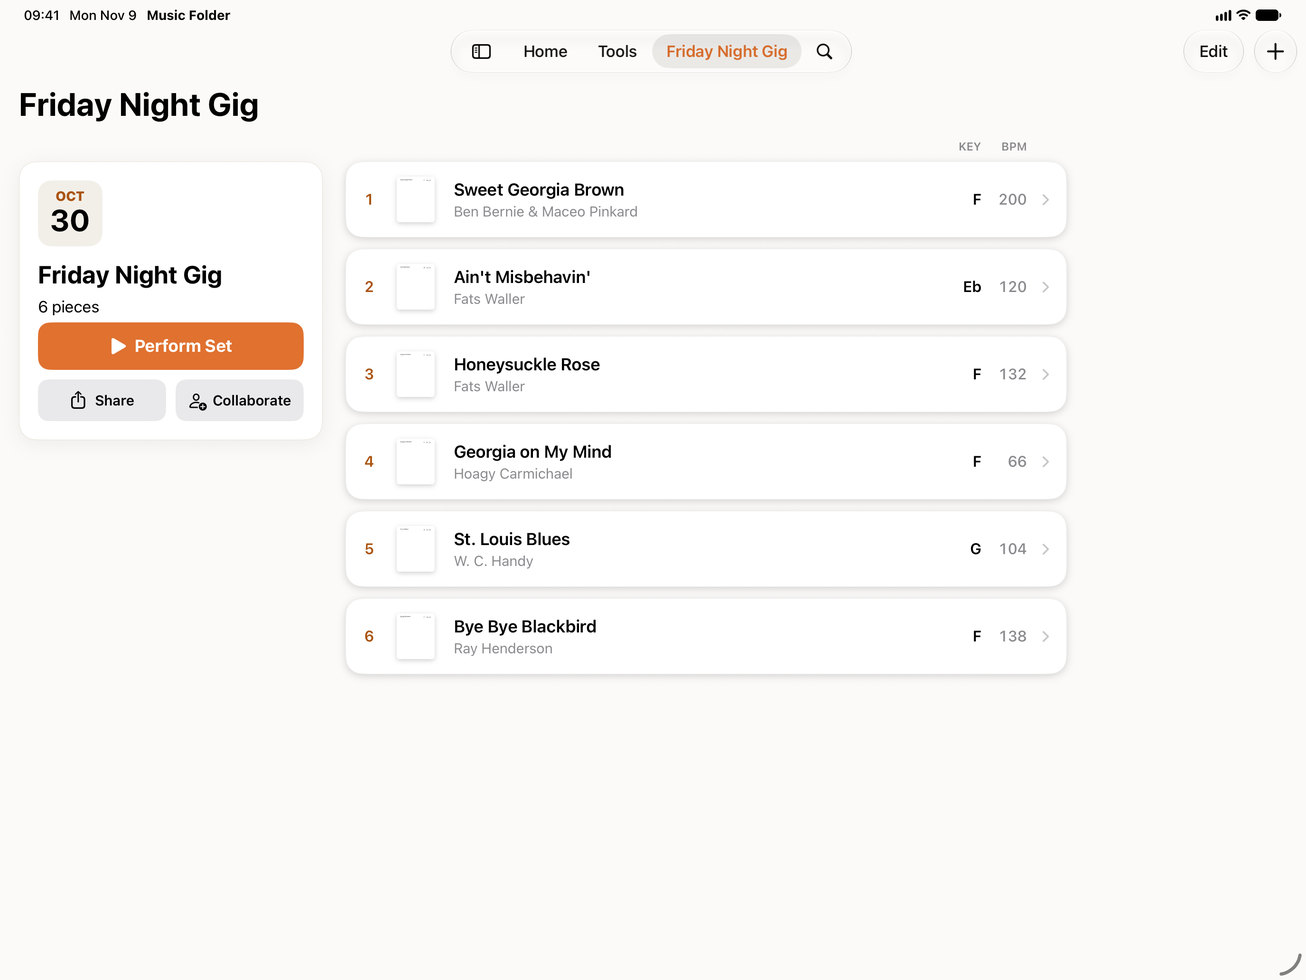
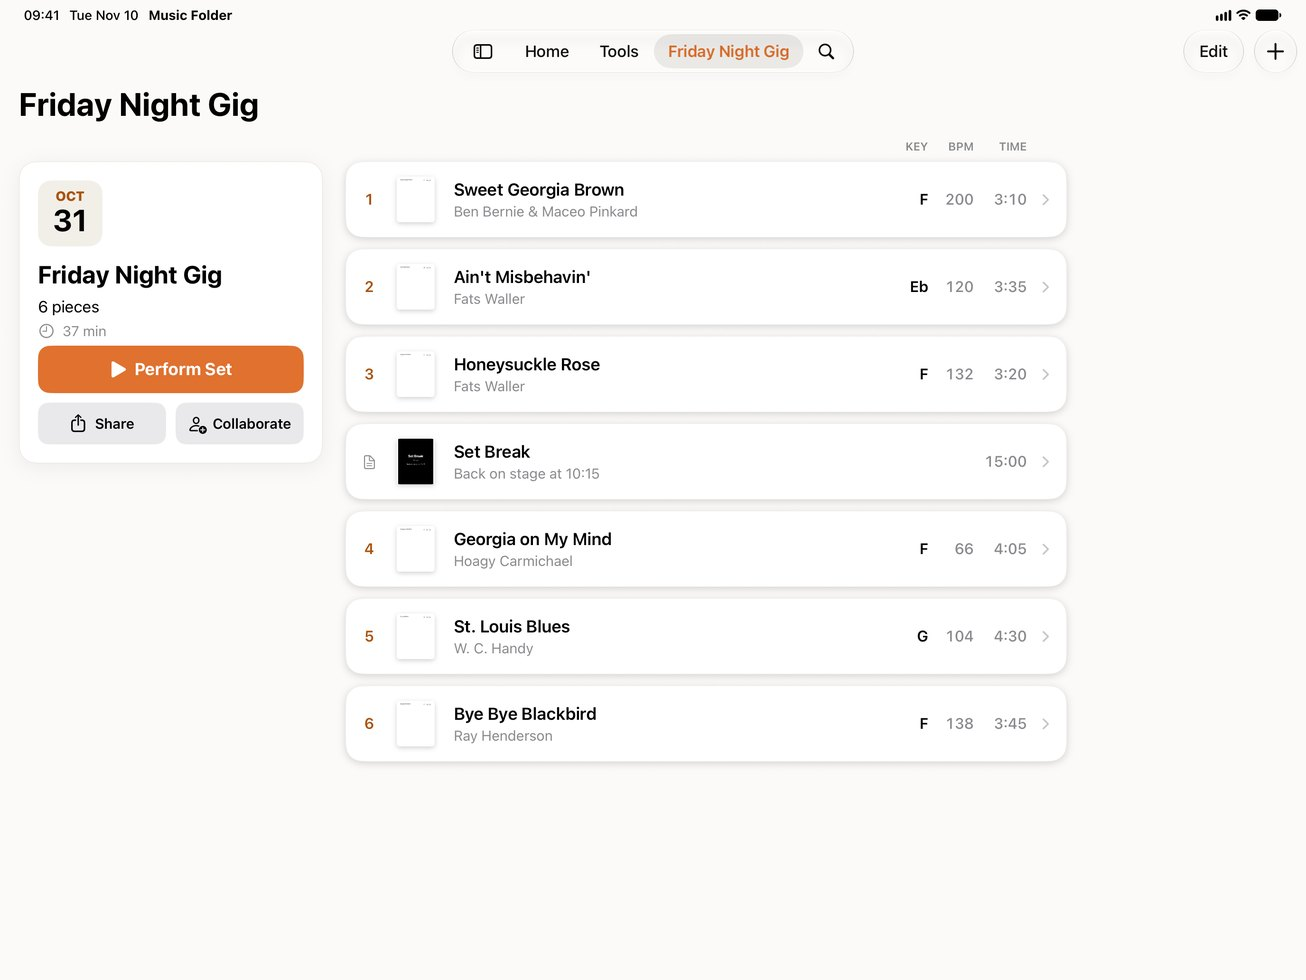
Friday Night Gig: song lengths and a black 15-minute Set Break page
Recaptured on MF iPad Pro 13 27.2 from the same seed, now with each song's
length (TIME column, 37 min set total) and a black Set Break set-list page
("Back on stage at 10:15", 15:00 timer) after Honeysuckle Rose. Window
resize handle removed. Alt text follows; cache-busted (v4) on Set Lists,
Page Turner and Bands.

diff --git a/features/page-turner.html b/features/page-turner.html
@@ -263,7 +263,7 @@
   <div class="wrap rows">
     <div class="row-feature">
       <div class="rf-text"><h2 class="heading-sm">Straight through <em>the set.</em></h2><p>In a set list, a page turn on the last page carries straight into the next song, so the whole set plays like one score.</p><ul class="rf-points"><li><svg viewBox="0 0 16 16" fill="none" stroke="currentColor" stroke-width="1.9" stroke-linecap="round" stroke-linejoin="round" aria-hidden="true"><path d="M3 8.5l3 3 7-7"/></svg><span>Works in every reader, Planning Center services included</span></li><li><svg viewBox="0 0 16 16" fill="none" stroke="currentColor" stroke-width="1.9" stroke-linecap="round" stroke-linejoin="round" aria-hidden="true"><path d="M3 8.5l3 3 7-7"/></svg><span>Turn page by page, or scroll continuously</span></li><li><svg viewBox="0 0 16 16" fill="none" stroke="currentColor" stroke-width="1.9" stroke-linecap="round" stroke-linejoin="round" aria-hidden="true"><path d="M3 8.5l3 3 7-7"/></svg><span>The screen stays awake while you play</span></li></ul></div>
-      <div class="rf-visual"><div class="device tablet landscape fit"><div class="screen shot"><img src="/assets/setlist-band-ipad.jpg?v=3" alt="A set list called Friday Night Gig in Music Folder on iPad: six jazz standards in playing order, each with composer, key and tempo, beside Perform Set, Share and Collaborate" width="1306" height="980" loading="lazy"></div></div></div>
+      <div class="rf-visual"><div class="device tablet landscape fit"><div class="screen shot"><img src="/assets/setlist-band-ipad.jpg?v=4" alt="A set list called Friday Night Gig in Music Folder on iPad: six jazz standards in playing order, each with composer, key, tempo and length, a black Set Break page with a 15-minute timer after the third song, and the set’s total time beside Perform Set, Share and Collaborate" width="1306" height="980" loading="lazy"></div></div></div>
     </div><div class="row-feature flip">
       <div class="rf-text"><h2 class="heading-sm">Every key a pedal <em>might send.</em></h2><p>Music Folder listens for all the keys page turners use, so most pedals work the moment they’re paired.</p><ul class="rf-points"><li><svg viewBox="0 0 16 16" fill="none" stroke="currentColor" stroke-width="1.9" stroke-linecap="round" stroke-linejoin="round" aria-hidden="true"><path d="M3 8.5l3 3 7-7"/></svg><span>Bluetooth keyboards work too</span></li><li><svg viewBox="0 0 16 16" fill="none" stroke="currentColor" stroke-width="1.9" stroke-linecap="round" stroke-linejoin="round" aria-hidden="true"><path d="M3 8.5l3 3 7-7"/></svg><span>Turns pause while you annotate or type a note</span></li><li><svg viewBox="0 0 16 16" fill="none" stroke="currentColor" stroke-width="1.9" stroke-linecap="round" stroke-linejoin="round" aria-hidden="true"><path d="M3 8.5l3 3 7-7"/></svg><span>Landscape for charts printed sideways</span></li></ul></div>
       <div class="rf-visual"><div class="pedal-card"><svg class="pedal-art" viewBox="0 0 400 240" aria-hidden="true" focusable="false"><defs><linearGradient id="paBase" x1="0" y1="0" x2="0" y2="1"><stop offset="0" stop-color="#2E2E31"/><stop offset="1" stop-color="#1F1F21"/></linearGradient><linearGradient id="paPad" x1="0" y1="0" x2="0" y2="1"><stop offset="0" stop-color="#303033"/><stop offset=".55" stop-color="#232325"/><stop offset="1" stop-color="#1A1A1C"/></linearGradient><pattern id="paGrip" width="5" height="5" patternUnits="userSpaceOnUse"><circle cx="2.5" cy="2.5" r=".7" fill="rgba(255,255,255,0.06)"/></pattern><radialGradient id="paLed"><stop offset="0" stop-color="#F7A46A"/><stop offset="1" stop-color="#E0712F" stop-opacity="0"/></radialGradient></defs><rect x="12" y="38" width="376" height="196" rx="30" fill="#0E0E0F"/><rect x="12" y="28" width="376" height="196" rx="30" fill="url(#paBase)"/><rect x="12.75" y="28.75" width="374.5" height="194.5" rx="29.25" fill="none" stroke="rgba(255,255,255,0.07)" stroke-width="1.5"/><g class="pa-pad pa-l"><rect x="26" y="49" width="160" height="168" rx="20" fill="#0B0B0C"/><g class="pa-top"><rect x="26" y="42" width="160" height="168" rx="20" fill="url(#paPad)"/><rect x="26" y="42" width="160" height="168" rx="20" fill="url(#paGrip)"/><rect x="26.75" y="42.75" width="158.5" height="166.5" rx="19.25" fill="none" stroke="rgba(255,255,255,0.09)" stroke-width="1.5"/><rect class="pa-glow" x="27.5" y="43.5" width="157" height="165" rx="18.5" fill="none" stroke="#E0712F" stroke-width="2"/></g></g><g class="pa-pad pa-r"><rect x="214" y="49" width="160" height="168" rx="20" fill="#0B0B0C"/><g class="pa-top"><rect x="214" y="42" width="160" height="168" rx="20" fill="url(#paPad)"/><rect x="214" y="42" width="160" height="168" rx="20" fill="url(#paGrip)"/><rect x="214.75" y="42.75" width="158.5" height="166.5" rx="19.25" fill="none" stroke="rgba(255,255,255,0.09)" stroke-width="1.5"/><rect class="pa-glow" x="215.5" y="43.5" width="157" height="165" rx="18.5" fill="none" stroke="#E0712F" stroke-width="2"/></g></g><circle cx="200" cy="34.5" r="2.6" fill="#3A3A3D"/><circle class="pa-led" cx="200" cy="34.5" r="7" fill="url(#paLed)"/><circle class="pa-led" cx="200" cy="34.5" r="2.6" fill="#E0712F"/></svg><div class="pc-cols"><div class="kc-col pc-prev"><div class="kc-head">Previous page</div><div class="kc-keys"><kbd aria-label="Left arrow">←</kbd><kbd aria-label="Up arrow">↑</kbd><kbd>Page Up</kbd><kbd>Return</kbd></div></div><div class="kc-col pc-next"><div class="kc-head">Next page</div><div class="kc-keys"><kbd aria-label="Right arrow">→</kbd><kbd aria-label="Down arrow">↓</kbd><kbd>Page Down</kbd><kbd>Space</kbd></div></div></div></div>

diff --git a/features/set-lists.html b/features/set-lists.html
@@ -203,7 +203,7 @@
       <p class="lede">Build the set from your own charts and scores, share it with everyone, and play the whole thing straight through, one page after another.</p>
       <div class="cta-row"><a class="badge-link" href="/get?from=features-set-lists-hero"><picture><img src="https://toolbox.marketingtools.apple.com/api/badges/download-on-the-app-store/black/en-us?size=250x83" alt="Download on the App Store" width="144" height="48"></picture></a></div>
     </div>
-    <div class="lp-visual"><div class="device tablet landscape fit"><div class="screen shot"><img src="/assets/setlist-band-ipad.jpg?v=3" alt="A set list called Friday Night Gig in Music Folder on iPad: six jazz standards in playing order, each with composer, key and tempo, beside Perform Set, Share and Collaborate" width="1306" height="980"></div></div></div>
+    <div class="lp-visual"><div class="device tablet landscape fit"><div class="screen shot"><img src="/assets/setlist-band-ipad.jpg?v=4" alt="A set list called Friday Night Gig in Music Folder on iPad: six jazz standards in playing order, each with composer, key, tempo and length, a black Set Break page with a 15-minute timer after the third song, and the set’s total time beside Perform Set, Share and Collaborate" width="1306" height="980"></div></div></div>
   </div>
 </section>
 

diff --git a/for/bands.html b/for/bands.html
@@ -204,7 +204,7 @@
       <p class="lede">No more binders, loose pages or last-minute texts. Your charts live in one library, and each gig’s set goes straight to the whole band.</p>
       <div class="cta-row"><a class="badge-link" href="/get?from=for-bands-hero"><picture><img src="https://toolbox.marketingtools.apple.com/api/badges/download-on-the-app-store/black/en-us?size=250x83" alt="Download on the App Store" width="144" height="48"></picture></a></div>
     </div>
-    <div class="lp-visual"><div class="device tablet landscape fit"><div class="screen shot"><img src="/assets/setlist-band-ipad.jpg?v=3" alt="A set list called Friday Night Gig in Music Folder on iPad: six jazz standards in playing order, each with composer, key and tempo, beside Perform Set, Share and Collaborate" width="1306" height="980"></div></div></div>
+    <div class="lp-visual"><div class="device tablet landscape fit"><div class="screen shot"><img src="/assets/setlist-band-ipad.jpg?v=4" alt="A set list called Friday Night Gig in Music Folder on iPad: six jazz standards in playing order, each with composer, key, tempo and length, a black Set Break page with a 15-minute timer after the third song, and the set’s total time beside Perform Set, Share and Collaborate" width="1306" height="980"></div></div></div>
   </div>
 </section>
 
